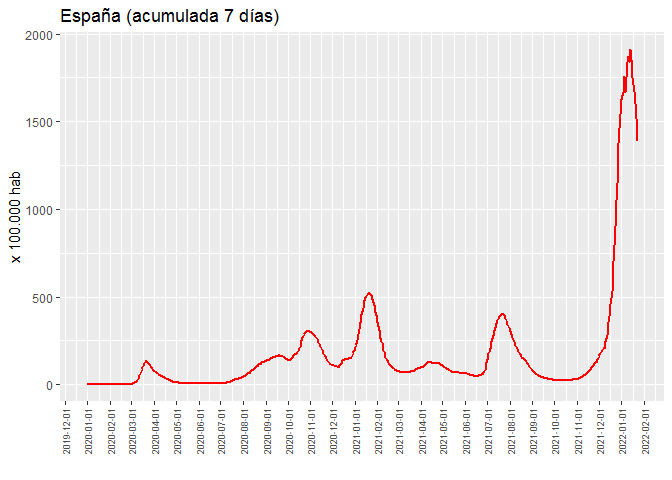
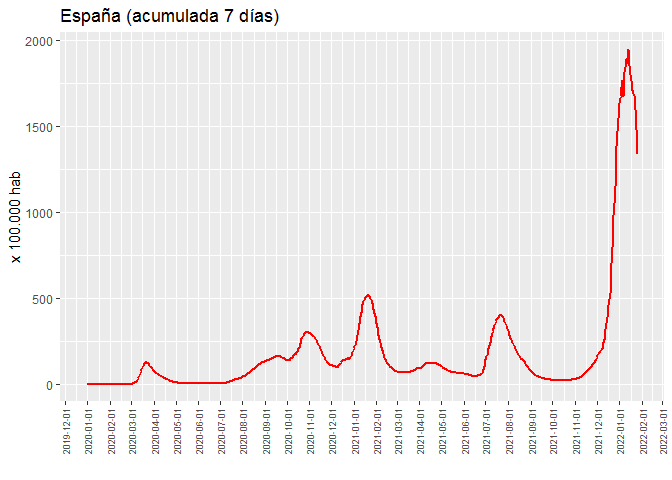
update

diff --git a/README.md b/README.md
@@ -1,7 +1,7 @@
 Covid-19: Incidencia acumulada
 ================
 JMSS \[Usal - CIC\]
-(updated: 25 ene 2022)
+(updated: 28 ene 2022)
 
 ### Incidencia acumulada del Covid19 por cada 100.000 habitantes
 
